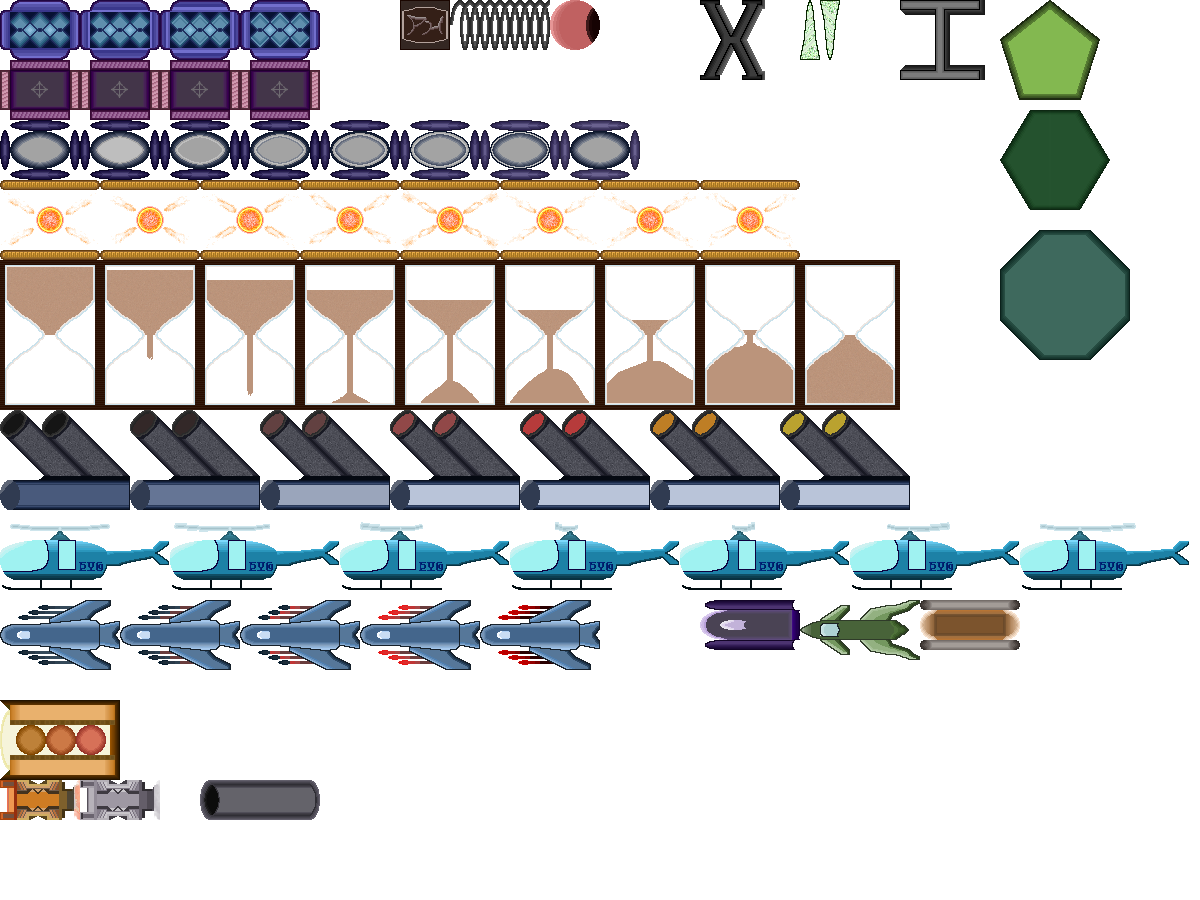
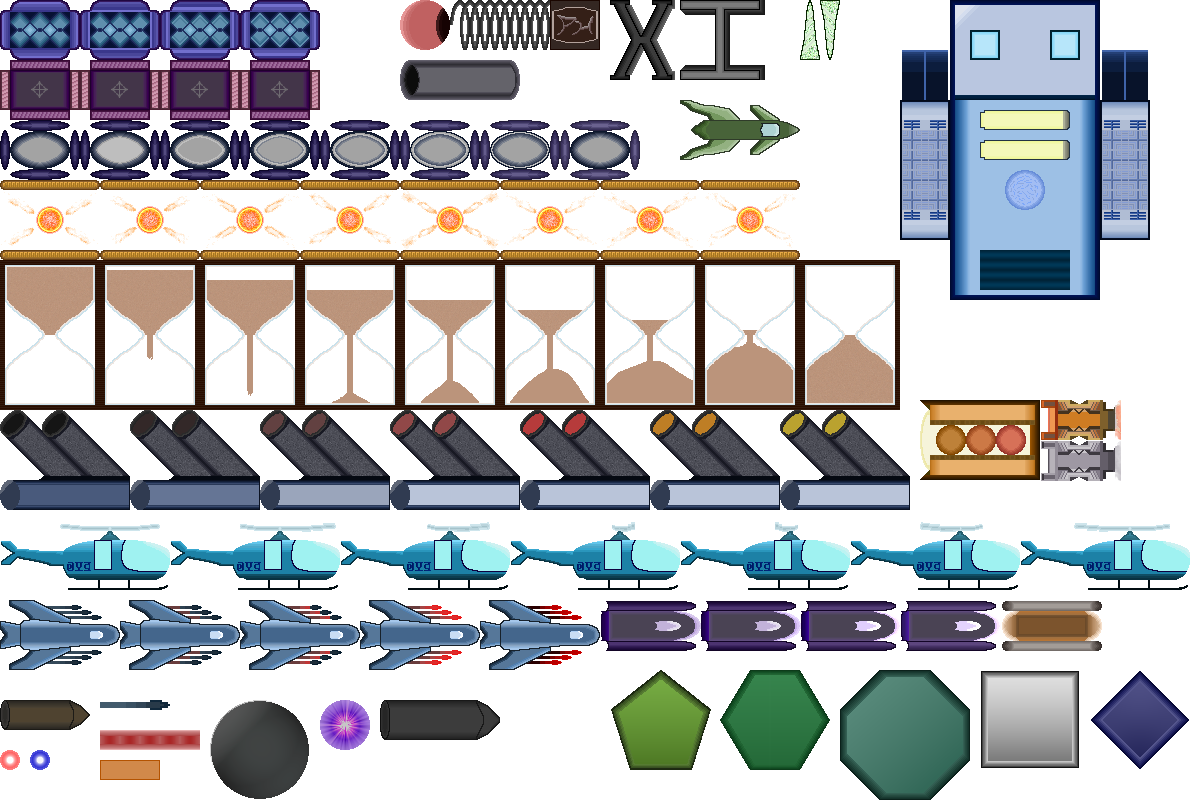
feat: round 3-1 towerEnemyGroup1 image modify

diff --git a/js/imageSrc.js b/js/imageSrc.js
@@ -376,26 +376,40 @@ export class imageDataInfo {
     moveDarkViolet: new ImageDataObject(0, 120, 80, 60, 8),
     moveYellowBall: new ImageDataObject(0, 180, 100, 80, 8),
     sandglass: new ImageDataObject(0, 260, 100, 150, 9),
-    daepo: new ImageDataObject(0, 410, 130, 100, 7),
+    tapo: new ImageDataObject(0, 410, 130, 100, 7),
     hellgi: new ImageDataObject(0, 524, 170, 66, 7),
     heeljeon: new ImageDataObject(0, 600, 120, 70, 5),
-    hellba: new ImageDataObject(700, 600, 100, 50, 1),
-    hellspeed: new ImageDataObject(800, 600, 120, 60, 1),
-    hellpu: new ImageDataObject(920, 600, 100, 50, 1),
-    laserAlpha: new ImageDataObject(0, 700, 120, 80, 1),
-    laserMini: new ImageDataObject(0, 780, 80, 40, 1),
-    laserMiniGrey: new ImageDataObject(80, 780, 80, 40, 1),
-    hwapo: new ImageDataObject(200, 780, 120, 40, 1),
+    hellba: new ImageDataObject(601, 601, 100, 50, 4),
+    hellcho: new ImageDataObject(680, 100, 120, 60, 1),
+    hellgal: new ImageDataObject(1002, 601, 100, 50, 1),
+    laserAlpha: new ImageDataObject(920, 400, 120, 80, 1),
+    laserMini: new ImageDataObject(1041, 400, 80, 40, 1),
+    laserMiniGrey: new ImageDataObject(1041, 441, 80, 40, 1),
+    deapo: new ImageDataObject(400, 60, 120, 40, 1),
     punchBall: new ImageDataObject(400, 0, 50, 50, 1),
     punchSpring: new ImageDataObject(450, 0, 100, 50, 1),
     punchModule: new ImageDataObject(550, 0, 50, 50, 1),
-    X: new ImageDataObject(700, 0, 65, 80, 1),
+    X: new ImageDataObject(610, 0, 65, 80, 1),
+    I: new ImageDataObject(680, 0, 85, 80, 1),
     gasiUp: new ImageDataObject(800, 0, 20, 60, 1),
     gasiDown: new ImageDataObject(820, 0, 20, 60, 1),
-    I: new ImageDataObject(900, 0, 85, 80, 1),
-    pentagon: new ImageDataObject(1000, 0, 100, 100, 1),
-    hexagon: new ImageDataObject(1000, 110, 110, 100, 1),
-    octagon: new ImageDataObject(1000, 230, 130, 130, 1),
+    square: new ImageDataObject(980, 670, 100, 100, 1),
+    diamond: new ImageDataObject(1090, 670, 100, 100, 1),
+    pentagon: new ImageDataObject(610, 670, 100, 100, 1),
+    hexagon: new ImageDataObject(720, 670, 110, 100, 1),
+    octagon: new ImageDataObject(840, 670, 130, 130, 1),
+    bossRobot: new ImageDataObject(900, 0, 250, 300, 1),
+
+    // bullet
+    bulletTapo: new ImageDataObject(0, 700, 90, 30, 1),
+    bulletRed: new ImageDataObject(0, 750, 20, 20, 1),
+    bulletBlue: new ImageDataObject(30, 750, 20, 20, 1),
+    bulletHelljeonRocket: new ImageDataObject(100, 700, 70, 10, 1),
+    bulletRedLaser: new ImageDataObject(100, 730, 100, 20, 1),
+    bulletOrangeLaser: new ImageDataObject(100, 760, 60, 20, 1),
+    bulletDaepo: new ImageDataObject(210, 700, 100, 100, 1),
+    bulletPurpleEnergy: new ImageDataObject(320, 700, 50, 50),
+    bulletBossRocket: new ImageDataObject(380, 700, 120, 40, 1),
   }
 
   static fieldSystem = {
@@ -450,6 +464,7 @@ export class imageDataInfo {
     enemyDieIntruderLever: {x: 0, y: 410, width: 80, height: 80, frame: 11},
   }
 
+  /** @deprecated 이 항목은 잠정적으로 사용 중지됩니다. (더이상 적의 총알이미지데이터는 따로 분류되지 않고 적 이미지 데이터에 포함됩니다.) */
   static enemyBullet = {
     jemulEnergyBoltAttack: {x: 0, y: 0, width: 60, height: 60, frame: 6},
     jemulEnemyAir: {x: 20, y: 0, width: 30, height: 20, frame: 1},
